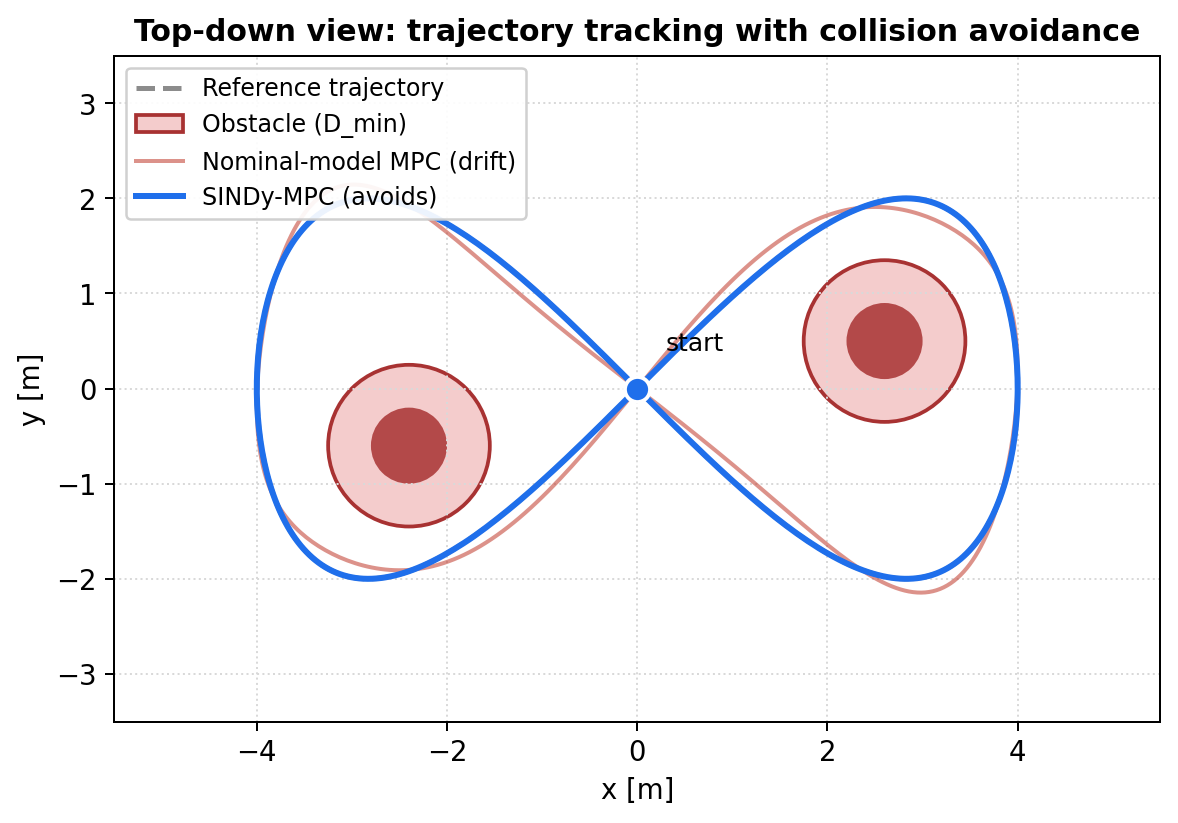
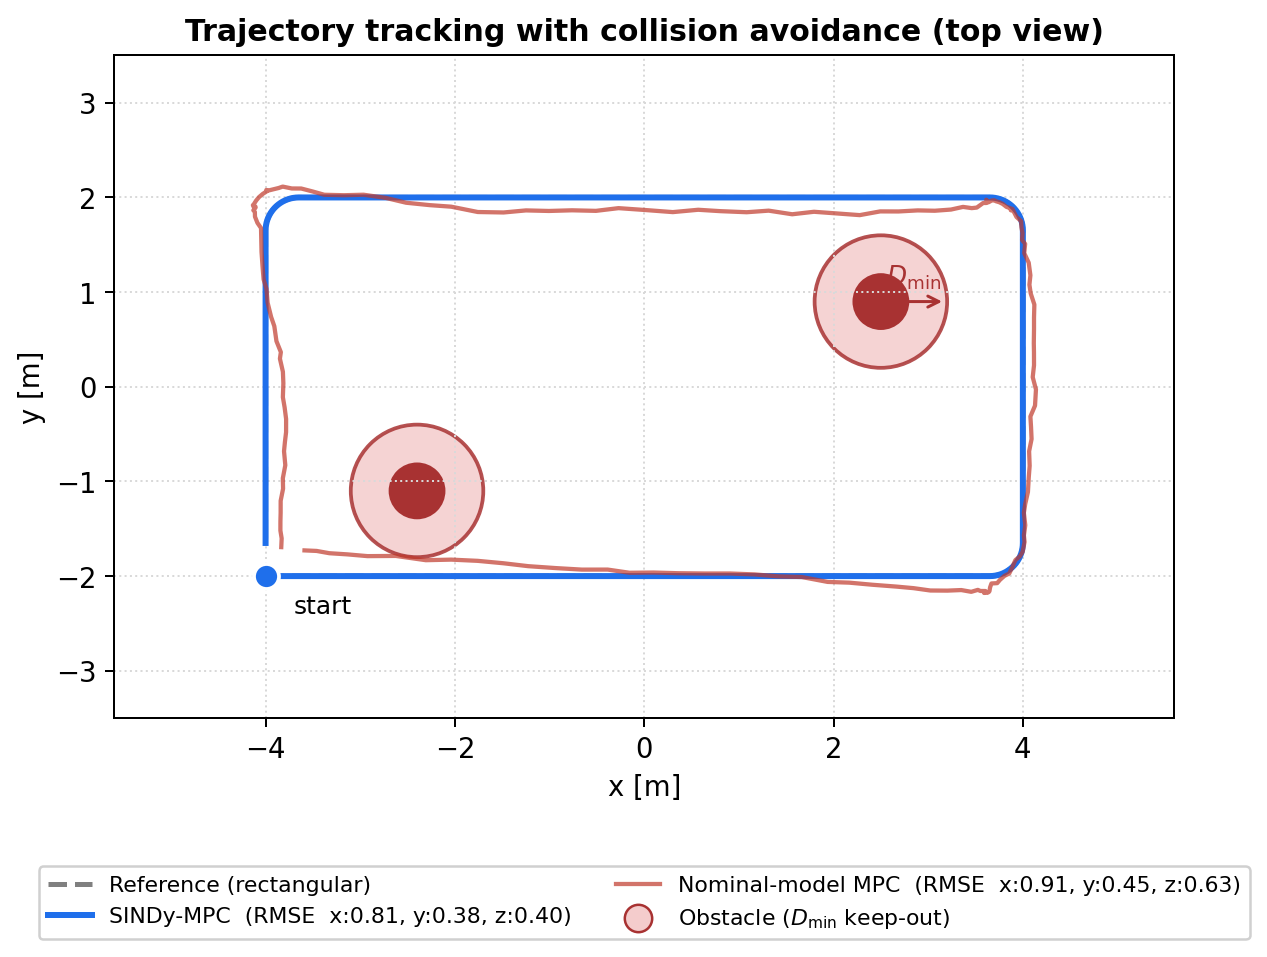
Update figures with paper-grounded results
- Fig 3: switch to rectangular reference (matches paper Fig. 8 setup),
  annotate D_min keep-out zone, show RMSE values in legend
- Fig 4 (NEW): quantitative results panel
  (a) SINDy coefficient identification error from Tables II-III
  (b) closed-loop tracking RMSE comparison from Table IV
- Posts: replace qualitative summary with actual numbers from the paper

diff --git a/_posts/2026-05-06-sindy-mpc-multirotor-collision-avoidance-en.md b/_posts/2026-05-06-sindy-mpc-multirotor-collision-avoidance-en.md
@@ -119,30 +119,34 @@ subject to
 
 The last constraint is what makes this work: a simple distance inequality forces the optimizer to bend the trajectory around obstacles. The header figure (Fig. 2) shows the full picture — offline identification feeding an online closed-loop MPC.
 
-## Identification accuracy
+## Identification accuracy (Tables II–III)
 
-### Translational model
+The paper reports true vs identified coefficients for the dominant terms of both translational and rotational dynamics. The key entries:
 
-| Quantity | Result |
-|---|---|
-| Thrust coefficient error | ~0.2% |
-| Estimated gravity | 9.808 (true 9.807) |
-| Aerodynamic terms | recovered accurately |
+| Term | True $\Sigma$ | Identified $\hat\Sigma$ | Error |
+|---|---:|---:|---:|
+| $R_{(1,3)} F_B \to \dot{x}$ | 0.7692 | 0.7707 | 0.20% |
+| $R_{(2,3)} F_B \to \dot{y}$ | 0.7692 | 0.7704 | 0.16% |
+| $L \to \dot{p}$ | 32.258 | 32.248 | 0.03% |
+| $M \to \dot{q}$ | 26.316 | 26.316 | 0.00% |
+| $N \to \dot{r}$ | 15.873 | 15.879 | 0.04% |
 
-### Rotational model
+Every dominant coefficient is recovered to within 1%. The exception is yaw aerodynamic damping ($-K_{M,r} r$), where the rectangular reference simply does not excite yaw enough to identify the term reliably (>30% error). **Excitation is part of the design problem.**
 
-| Quantity | Result |
-|---|---|
-| Control-input terms | very accurate |
-| Roll/pitch damping | ~3% error |
-| Yaw damping | ~33% error |
+## Closed-loop performance (Table IV)
 
-Yaw damping is the weakest link — and the reason is illuminating. The rectangular reference trajectory does not excite yaw motion, so SINDy lacks the data needed to identify the corresponding term. **Data quality is part of the design problem.**
+![Quantitative results](/assets/img/posts/sindy-mpc/fig4_quantitative.png){: w="900" }
+_Fig. 3. (a) Identification error for the dominant coefficients — all under 1%. (b) Closed-loop position RMSE — SINDy-MPC outperforms nominal-model MPC on every axis, with the largest improvement on the z axis (36% reduction, $0.628 \to 0.399$)._
 
-### Closed-loop performance
+| RMSE [m] | $x$ | $y$ | $z$ |
+|---|---:|---:|---:|
+| **SINDy-MPC** | **0.813** | **0.381** | **0.399** |
+| Nominal-model MPC | 0.909 | 0.452 | 0.628 |
+
+The numbers tell a clear story. The nominal-model MPC, unaware of the payload and aerodynamic effects, accumulates large altitude error, while the SINDy-identified model brings the closed-loop tracking back in line.
 
 ![Trajectory schematic](/assets/img/posts/sindy-mpc/fig3_trajectory.png){: w="700" }
-_Fig. 3. Top-down view of trajectory tracking with collision avoidance. A controller built on the nominal model drifts under payload uncertainty and aerodynamic effects (light red), whereas SINDy-MPC respects the distance constraint and bends safely around the obstacles (blue)._
+_Fig. 4. Top-down view of trajectory tracking with collision avoidance. With a rectangular reference and two $D_{\min}$ keep-out zones, SINDy-MPC (blue) stays close to the reference, while the nominal-model MPC (light red) drifts due to model mismatch._
 
 - The vehicle tracks the reference under payload uncertainty and unmodeled aerodynamics.
 - The MPC keeps a safe distance from each obstacle while completing the trajectory.

diff --git a/_posts/2026-05-06-sindy-mpc-multirotor-collision-avoidance.md b/_posts/2026-05-06-sindy-mpc-multirotor-collision-avoidance.md
@@ -121,28 +121,34 @@ $$
 
 ## 결과: 얼마나 잘 식별했나?
 
-### 병진 모델
+### 식별 정확도 (논문 Table II–III)
 
-| 항목 | 결과 |
-|---|---|
-| 추력 계수 오차 | 약 0.2% |
-| 중력 추정값 | 9.808 (참값 9.807) |
-| 공기역학 항 | 정확히 복원 |
+논문은 병진/회전 모델 각각에 대해 dominant한 계수의 참값과 식별값을 제공합니다. 핵심 항만 추리면 다음과 같습니다.
 
-### 회전 모델
+| 계수 | 참값 ($\Sigma$) | 식별값 ($\hat\Sigma$) | 오차 |
+|---|---:|---:|---:|
+| $R_{(1,3)} F_B \to \dot{x}$ | 0.7692 | 0.7707 | 0.20% |
+| $R_{(2,3)} F_B \to \dot{y}$ | 0.7692 | 0.7704 | 0.16% |
+| $L \to \dot{p}$ | 32.258 | 32.248 | 0.03% |
+| $M \to \dot{q}$ | 26.316 | 26.316 | 0.00% |
+| $N \to \dot{r}$ | 15.873 | 15.879 | 0.04% |
 
-| 항목 | 결과 |
-|---|---|
-| 제어 입력 항 | 매우 정확 |
-| Roll/Pitch 감쇠 | 약 3% 오차 |
-| Yaw 감쇠 | 약 33% 오차 |
+거의 모든 항이 1% 미만의 오차로 회복됩니다. 다만 yaw 공기역학($-K_{M,r} r$)은 사각형 궤적에 yaw 변화가 거의 없어서 30% 이상의 오차를 보였는데, 이는 **데이터 수집 전략의 중요성**을 잘 보여주는 부분이기도 합니다.
 
-Yaw 쪽이 큰 이유는 단순합니다 — **사각형 궤적에는 yaw 변화가 거의 없어서** 데이터가 부족했기 때문입니다. 이는 데이터 수집 전략의 중요성을 잘 보여주는 부분이기도 합니다.
+### 폐루프 제어 성능 (논문 Table IV)
 
-### 폐루프 제어 성능
+![Quantitative results](/assets/img/posts/sindy-mpc/fig4_quantitative.png){: w="900" }
+_그림 3. (a) SINDy가 식별한 dominant 계수의 오차 — 모두 1% 미만. (b) 폐루프 위치 RMSE 비교 — SINDy-MPC가 모든 축에서 nominal-model MPC보다 작은 오차를 보였고, 특히 z축에서 36% 감소($0.628 \to 0.399$)._
+
+| RMSE [m] | $x$ | $y$ | $z$ |
+|---|---:|---:|---:|
+| **SINDy-MPC** | **0.813** | **0.381** | **0.399** |
+| Nominal-model MPC | 0.909 | 0.452 | 0.628 |
+
+수치만 봐도 효과가 명확합니다. 페이로드/공기역학 효과를 모르는 nominal MPC는 z축에서 특히 크게 흔들리고, SINDy-MPC는 같은 환경에서도 깔끔히 추종합니다.
 
 ![Trajectory schematic](/assets/img/posts/sindy-mpc/fig3_trajectory.png){: w="700" }
-_그림 3. 위에서 본 궤적 추종 + 충돌 회피 모식도. 공칭 모델만으로는 페이로드/공기역학 영향으로 궤적이 흔들리지만(연한 빨강), SINDy-MPC는 거리 제약을 만족시키며 안전 거리를 두고 회피한다(파랑)._
+_그림 4. 위에서 본 궤적 추종 + 충돌 회피 모식도. 사각형 reference에 두 개의 장애물($D_{\min}$ keep-out)이 있을 때, SINDy-MPC(파랑)는 reference에 가깝게 따라가는 반면 nominal-model MPC(연빨강)는 모델 불일치로 드리프트가 발생한다._
 
 - 페이로드 불확실성 + 미지 공기역학 환경에서도 **참조 궤적 추종** 성공
 - 장애물과 안전 거리를 유지하면서 **회피 기동** 수행